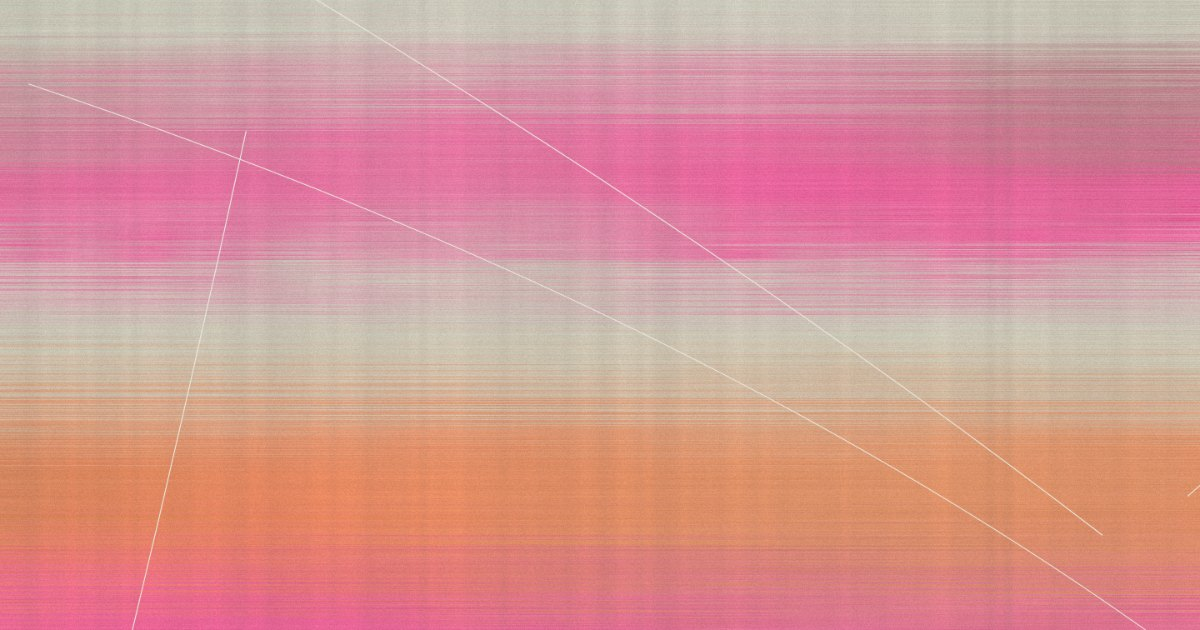
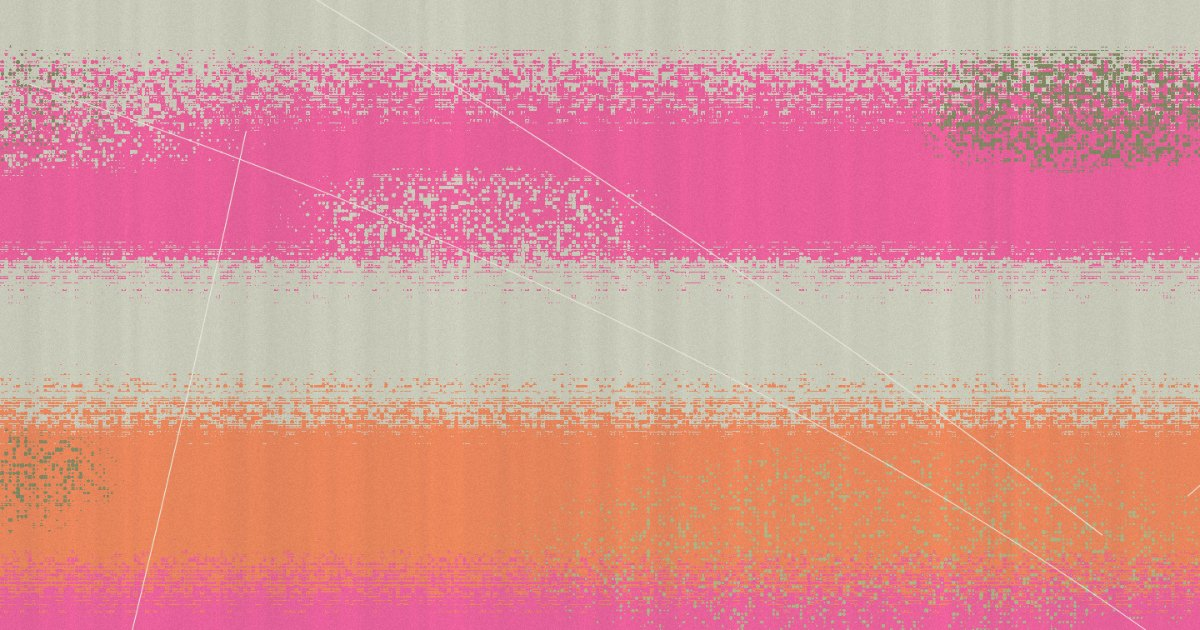
Slip stipples instead of dragging
The smear goes and a stipple takes its place: two bands no longer fade into
each other, they meet in a spray of specks of one colour into the other,
which is the only way an airbrush or a stipple engraving can make a gradient
at all. Scatter picks how the specks are dealt — evenly, clumped into drifts,
or on a fixed screen — and Size and Spread set how big they are and how much
of the way between two bands is dealt out rather than ruled.

Each speck is one draw per cell mixed with how far the pixel sits from that
cell's middle, so a cell opens from the centre out as a dot instead of
flipping all at once as a square. Without that it read as a screenshot of a
low-colour GIF rather than as a stipple.

Spread sharpens a patch's edge as well as a band's, or the one control would
mean two different things depending on which you were looking at. The Slip
stays: every row still reads the bands from slightly the wrong height, which
is what leaves the edges ragged. Drift, Tear and Crawl replace the old
movements; Crawl opens and closes the spray.

Claude-Session: https://claude.ai/code/session_01Hb5jk9z6h4o1AzZNFzskh6

diff --git a/slip/index.html b/slip/index.html
@@ -10,7 +10,7 @@
 <link rel="canonical" href="https://playgrnd.tools/slip">
 <meta property="og:site_name" content="playgrnd">
 <meta property="og:title" content="Slip — playgrnd">
-<meta property="og:description" content="Generate smeared-colour backgrounds — bands of colour dragged sideways into long streaks, torn line by line, under a scanner's stripe and a bleaching wash. Exports image and video.">
+<meta property="og:description" content="Generate stippled-colour backgrounds — bands of colour that meet in a spray of specks rather than a fade, slipping line by line, under a scanner's stripe and a bleaching wash. Exports image and video.">
 <meta property="og:type" content="website">
 <meta property="og:url" content="https://playgrnd.tools/slip">
 <meta property="og:image" content="https://playgrnd.tools/slip/og.jpg">
@@ -19,9 +19,9 @@
 <meta property="og:image:alt" content="Artwork made with Slip.">
 <meta name="twitter:card" content="summary_large_image">
 <meta name="twitter:title" content="Slip — playgrnd">
-<meta name="twitter:description" content="Generate smeared-colour backgrounds — bands of colour dragged sideways into long streaks, torn line by line, under a scanner's stripe and a bleaching wash.">
+<meta name="twitter:description" content="Generate stippled-colour backgrounds — bands of colour that meet in a spray of specks rather than a fade, slipping line by line, under a scanner's stripe and a bleaching wash.">
 <meta name="twitter:image" content="https://playgrnd.tools/slip/og.jpg">
-<meta name="description" content="Generate smeared-colour backgrounds — bands of colour dragged sideways into long streaks, torn line by line, under a scanner's stripe and a bleaching wash. Exports image and video.">
+<meta name="description" content="Generate stippled-colour backgrounds — bands of colour that meet in a spray of specks rather than a fade, slipping line by line, under a scanner's stripe and a bleaching wash. Exports image and video.">
 <link rel="stylesheet" href="https://fonts.googleapis.com/css2?family=DM+Mono&display=swap">
 <style>
 :root{
@@ -503,17 +503,16 @@ input[type=range]{accent-color:var(--ink)}
       </a>
       <div class="tbl">
         <span class="k">Index</span><span class="v">40 / 40</span>
-        <span class="k">Type</span><span class="v">Dragged colour</span>
+        <span class="k">Type</span><span class="v">Stippled colour</span>
       </div>
       <a class="lnk back" href="../index.html">&larr; All tools</a>
     </div>
     <div class="l-scroll"><details class="grp" open><summary>Field</summary><div class="grp-b"><div class="pr"><div class="top"><span class="k">Bands</span><span class="v" id="bandsVal">5</span></div><div class="track"><input type="range" id="bands" min="2" max="14" step="1" value="5"></div></div>
         <div class="pr"><div class="top"><span class="k">Patches</span><span class="v" id="patchesVal">6</span></div><div class="track"><input type="range" id="patches" min="0" max="24" step="1" value="6"></div></div>
-        <div class="pr"><div class="top"><span class="k">Strength</span><span class="v" id="blendVal">55%</span></div><div class="track"><input type="range" id="blend" min="0" max="1" step="0.01" value="0.55"></div></div>
-        <div class="pr"><div class="top"><span class="k">Detail</span><span class="v" id="detailVal">55%</span></div><div class="track"><input type="range" id="detail" min="0" max="1" step="0.01" value="0.55"></div></div></div></details>
-    <details class="grp"><summary>Drag</summary><div class="grp-b"><div class="misc stack"><span class="mhead"><span class="k">Direction</span></span><span class="mval"><div class="chips" id="dirs"></div></span></div>
-        <div class="pr"><div class="top"><span class="k">Smear</span><span class="v" id="smearVal">50%</span></div><div class="track"><input type="range" id="smear" min="0" max="1" step="0.01" value="0.5"></div></div>
-        <div class="pr"><div class="top"><span class="k">Variation</span><span class="v" id="varyVal">60%</span></div><div class="track"><input type="range" id="vary" min="0" max="1" step="0.01" value="0.6"></div></div>
+        <div class="pr"><div class="top"><span class="k">Strength</span><span class="v" id="blendVal">55%</span></div><div class="track"><input type="range" id="blend" min="0" max="1" step="0.01" value="0.55"></div></div></div></details>
+    <details class="grp"><summary>Stipple</summary><div class="grp-b"><div class="misc stack"><span class="mhead"><span class="k">Scatter</span></span><span class="mval"><div class="chips" id="dirs"></div></span></div>
+        <div class="pr"><div class="top"><span class="k">Size</span><span class="v" id="sizeVal">25%</span></div><div class="track"><input type="range" id="size" min="0" max="1" step="0.01" value="0.25"></div></div>
+        <div class="pr"><div class="top"><span class="k">Spread</span><span class="v" id="spreadVal">40%</span></div><div class="track"><input type="range" id="spread" min="0" max="1" step="0.01" value="0.4"></div></div>
         <div class="pr"><div class="top"><span class="k">Slip</span><span class="v" id="slipVal">35%</span></div><div class="track"><input type="range" id="slip" min="0" max="1" step="0.01" value="0.35"></div></div></div></details>
     <details class="grp"><summary>Curves</summary><div class="grp-b"><div class="pr"><div class="top"><span class="k">Curves</span><span class="v" id="curvesVal">4</span></div><div class="track"><input type="range" id="curves" min="0" max="20" step="1" value="4"></div></div>
         <div class="pr"><div class="top"><span class="k">Weight</span><span class="v" id="weightVal">30%</span></div><div class="track"><input type="range" id="weight" min="0" max="1" step="0.01" value="0.3"></div></div>
@@ -612,11 +611,10 @@ function relLum(h){const[r,g,b]=hex2rgb(h).map(v=>{v/=255;return v<=.03928?v/12.
 
 const RATIOS=[{id:"9:16",w:9,h:16},{id:"3:4",w:3,h:4},{id:"4:5",w:4,h:5},{id:"1:1",w:1,h:1},
  {id:"5:4",w:5,h:4},{id:"4:3",w:4,h:3},{id:"3:2",w:3,h:2},{id:"16:9",w:16,h:9}];
-const MODES=[["drift","Drift"],["tear","Tear"],["pulse","Pulse"]];
-/* Which way the picture is dragged. The colour bands are laid at right angles
-   to it, because a band running the same way as the smear is the one thing
-   the smear would rub out. */
-const DIRS=[["across","Across"],["down","Down"],["diag","Diagonal"]];
+const MODES=[["drift","Drift"],["tear","Tear"],["crawl","Crawl"]];
+/* How the specks are dealt: evenly, clumped into clouds the way an airbrush
+   spatters, or on a fixed grid like a printer's screen. */
+const DIRS=[["even","Even"],["cloud","Cloud"],["grid","Grid"]];
 
 /* The first ink is the paper the wash bleaches towards and the curves are
    scratched back to; the rest are the colours in the field. */
@@ -630,8 +628,8 @@ const PALETTES=[
 
 const S={
   seed:12, ratio:"9:16",
-  bands:5, patches:6, blend:0.55, detail:0.55,
-  dir:"across", smear:0.5, vary:0.6, slip:0.35,
+  bands:5, patches:6, blend:0.55,
+  dir:"even", size:0.25, spread:0.4, slip:0.35,
   scan:0.3, pitch:0.3, grain:0.3, wash:0.4,
   curves:4, weight:0.3, bend:0.55,
   pal:PALETTES[0].slice(),
@@ -659,13 +657,15 @@ function hex2rgbP(h){
   if(h.length===3) h=h.split("").map(c=>c+c).join("");
   return [parseInt(h.slice(0,2),16)||0,parseInt(h.slice(2,4),16)||0,parseInt(h.slice(4,6),16)||0];
 }
+/* a printer's screen in four by four: the order the cells of a block fill in */
+const BAYER=[0,8,2,10,12,4,14,6,3,11,1,9,15,7,13,5];
 
 /* ------------------------------------------------------------------
-   Everything here lives in a frame that turns with the smear: u runs
-   along the drag and v runs across it, so the same code makes a
-   sideways smear of stacked bands and a downward smear of upright ones
-   without a second path through it. Both are 0 to 1, which is what
-   keeps a band layout proportional to whatever frame it is asked for.
+   The field is a stack of colour bands with patches laid over them,
+   and nothing about it is smooth: every boundary is dealt out as
+   specks of one colour into the other rather than faded. Which is what
+   an airbrush does, and what a stipple engraving does, and neither of
+   them can make a gradient any other way.
 ------------------------------------------------------------------- */
 let slipCache=null, slipKey="";
 function slipP(){
@@ -708,6 +708,9 @@ function slipP(){
   return slipCache;
 }
 
+/* the round falloff of a patch, before the spread has its say */
+function w0(dd){ const w=1-dd; return w*w; }
+
 function paint(c,W,H,f){
   const M=S.motion, T=M.on ? f/M.frames : 0, ph=T*Math.PI*2;
   const raw=S.pal.length?S.pal:PALETTES[0];
@@ -719,15 +722,14 @@ function paint(c,W,H,f){
   for(const s of stops) s.c=inks[s.k%inks.length];
   for(const q of patches) q.c=inks[q.k%inks.length];
 
-  const across=S.dir!=="down";
-  const NU=across?W:H, NV=across?H:W;
-  const shear=S.dir==="diag"?0.55:0;
   const seed=S.seed|0;
+  const U=Math.sqrt(W*H);
+  const kind=S.dir;
 
-  /* swells to its fullest halfway round and back down by the end: a plain
-     sine is already back where it started at the half-loop, which spends half
-     of every loop repeating the first half */
-  const pulse=(M.on&&M.mode==="pulse") ? 1+(1-Math.cos(ph))*0.5*M.amount*0.8 : 1;
+  /* opens and closes rather than swelling and shrinking: a plain sine is
+     already back where it started at the half-loop, which spends half of
+     every loop repeating the first half */
+  const open=(M.on&&M.mode==="crawl") ? 1+(1-Math.cos(ph))*0.5*M.amount*0.9 : 1;
   const glide=(M.on&&M.mode==="drift") ? M.amount*0.12 : 0;
   const gu=Math.cos(ph)*glide, gv=Math.sin(ph)*glide*0.35;
   /* the tear crawls by walking the noise round a circle, which is the only
@@ -735,155 +737,112 @@ function paint(c,W,H,f){
   const tr=(M.on&&M.mode==="tear") ? M.amount*1.6 : 0;
   const tu=Math.cos(ph)*tr, tv=Math.sin(ph)*tr;
 
-  const spanU=NU, spanV=NV;
-  /* A drag can only smear what is already there. Bands on their own are so
-     smooth along the drag that blurring them changes nothing at all — it took
-     a picture with detail in it to make streaks. So the field is roughened
-     before it is dragged, at a scale sized off the picture rather than off the
-     pixel: fine grain going in, long strands of colour coming out. */
-  /* The roughening is coarse along the drag and fine across it, on purpose.
-     A drag is an average, and averaging kills whatever varies along it: sixty
-     specks averaged into one leave almost nothing behind, which is why an even
-     grain going in came out as a faint haze. Long across the drag and thin at
-     right angles to it, the same grain survives as strands. */
-  const UU=Math.sqrt(W*H);
-  const dcU=Math.max(2,UU*0.026), dcV=Math.max(1.2,UU*0.0055);
-  const dfu=spanU/dcU, dfv=spanV/dcV;
-  const det=S.detail;
-  const rad=S.smear*0.24*pulse;            /* in u, as a fraction of the run */
+  /* one speck, in pixels, sized off the picture rather than off the pixel so
+     a 6000px export is the same picture as the preview and not a finer one */
+  const cell=Math.max(1,U*(0.0011+S.size*0.013));
+  const inv=1/cell;
+  const clumpF=1/Math.max(2,cell*11);
+  /* how much of the way between two bands is dealt out as specks: at nothing
+     the change is an edge, wound up it is a wide spray of one into the other */
+  const wide=Math.max(0.02,S.spread*open);
   const slipAmt=S.slip*0.16;
   const blend=S.blend;
 
   const img=c.createImageData(W,H), d=img.data;
-  const line=new Float32Array(NU*3);
-  const sum=new Float32Array((NU+1)*3);
+  const scanA=S.scan*0.5, wash=S.wash*0.8, gl=S.grain*46;
+  const pitch=Math.max(1.2,U*(0.0016+S.pitch*0.028));
 
-  for(let v=0;v<NV;v++){
-    const vn=(v+0.5)/NV;
-    /* how far this line is dragged, and how far it has slipped sideways from
-       the one above it -- the second is what tears the picture apart */
-    const wob=vnP(vn*7.3+tu,2.7+tv,seed+5);
-    const r=Math.max(0,rad*(1-S.vary*0.85+S.vary*1.7*wob))*NU;
-    /* The slip moves each line across the bands rather than along the drag.
-       Along the drag it did nothing worth seeing: a drag long enough to smear
-       a band leaves nothing with an edge for a sideways shift to break, so
-       the control was dead at every setting anyone would use. Across the
-       bands it is the thing you can actually see -- every line reads the
-       colour from slightly the wrong height, and the edges come apart. Two
-       shifts, one that slides whole runs of lines off true together and one
-       that is different on every single line. */
+  for(let y=0;y<H;y++){
+    const vn=(y+0.5)/H;
+    /* every row reads the bands from a slightly wrong height, which is what
+       leaves the edges ragged instead of ruled */
     const sl=(vnP(vn*23.1+tu,9.4+tv,seed+61)-0.5)*slipAmt
-            +(hshP(v,(tu*97)|0,seed+131)-0.5)*slipAmt*0.9;
+            +(hshP(y,(tu*97)|0,seed+131)-0.5)*slipAmt*0.9;
+    const vf=vn+gv+sl;
 
-    for(let u=0;u<NU;u++){
-      const un=(u+0.5)/NU;
-      const uf=un+gu;
-      /* the diagonal is the sideways smear of a field that has been sheared,
-         which comes to the same picture as dragging the field on the slant
-         and costs nothing extra */
-      const vf=vn+gv+sl+shear*(un-0.5);
+    /* the band this row falls in, and how far across it -- the same for the
+       whole row, so it is worth finding once */
+    let i=0; while(i<stops.length-2 && vf>stops[i+1].p) i++;
+    const A=stops[i], B=stops[i+1<stops.length?i+1:i];
+    const gap=B.p-A.p;
+    let t=gap>1e-6?(vf-A.p)/gap:0;
+    /* the change happens across the middle of the gap rather than all of it,
+       so a band has some body before it starts turning into its neighbour */
+    t=(t-0.5)/wide+0.5;
+    const gy=y*inv, cy=gy|0, fy=gy-cy-0.5;
+    let p=y*W*4;
 
-      /* the roughening: it moves this sample a little way across the bands
-         rather than only lightening it, so a smear pulls threads of the
-         neighbouring colour through instead of a grey blur */
-      let vd=vf, lift=0;
-      if(det>0.004){
-        vd+=det*0.36*((vnP(un*dfu,vf*dfv,seed+13)-0.5)
-                     +(vnP(un*dfu*2.3,vf*dfv*2.3,seed+91)-0.5)*0.5);
-        lift=det*96*(vnP(un*dfu*1.4+11.3,vf*dfv*1.4,seed+37)-0.5);
+    for(let x=0;x<W;x++,p+=4){
+      const un=(x+0.5)/W+gu;
+      const gx=x*inv, cx=gx|0, fx=gx-cx-0.5;
+      /* how far this pixel sits from the middle of its own cell. Mixed into
+         the draw it turns each cell from a square that flips all at once into
+         a dot that opens from the centre out — which is the difference
+         between a stipple and a screenshot of a low-colour GIF. */
+      const rad=Math.sqrt(fx*fx+fy*fy)*1.35;
+
+      /* the speck: one draw per cell, so a run of pixels takes the same
+         colour together and the result reads as a dot rather than as noise */
+      let r;
+      if(kind==="grid"){
+        /* a fixed order within each block of sixteen, which is a screen
+           rather than a scatter -- and it needs no randomness at all */
+        r=(BAYER[(cy&3)*4+(cx&3)]+0.5)/16;
+      }else{
+        r=hshP(cx,cy,seed+13);
+        if(kind==="cloud"){
+          /* the odds change slowly across the picture, so the specks gather
+             into drifts instead of lying evenly */
+          const dens=0.30+1.4*vnP(x*clumpF+tu,y*clumpF+tv,seed+7);
+          r=r/dens;
+        }
       }
+      r=r*0.62+rad*0.38;
 
-      /* the band ramp, read at this point across the field */
-      let i=0; while(i<stops.length-2 && vd>stops[i+1].p) i++;
-      const a=stops[i], b=stops[i+1<stops.length?i+1:i];
-      const gap=b.p-a.p;
-      let t=gap>1e-6?(vd-a.p)/gap:0;
-      /* the change happens across the middle two thirds of the gap rather than
-         all of it, so a band has some body to it before it starts turning into
-         its neighbour */
-      t=(t-0.17)/0.66;
-      t=t<0?0:t>1?1:t;
-      t=t*t*(3-2*t);
-      let R=a.c[0]+(b.c[0]-a.c[0])*t;
-      let G=a.c[1]+(b.c[1]-a.c[1])*t;
-      let B=a.c[2]+(b.c[2]-a.c[2])*t;
+      let col = r<t ? B.c : A.c;
 
-      /* patches of colour laid over the ramp, stretched along the drag */
+      /* patches, dealt the same way: a second draw so their speckle does not
+         line up with the band's */
       for(let j=0;j<patches.length;j++){
         const q=patches[j];
-        const du=(uf-q.u)/(q.r*q.stretch*spanV/spanU), dv=(vd-q.v)/q.r;
+        const du=(un-q.u)/(q.r*q.stretch*H/W), dv=(vf-q.v)/q.r;
         const dd=du*du+dv*dv;
         if(dd>=1) continue;
-        const w=1-dd;
-        const k=q.a*blend*w*w;
-        R+=(q.c[0]-R)*k; G+=(q.c[1]-G)*k; B+=(q.c[2]-B)*k;
+        /* Spread sharpens a patch's edge as well as a band's, or the one
+           control would mean two different things depending on which of them
+           you were looking at. */
+        let w=(w0(dd)-0.5)/wide+0.5;
+        w=w<0?0:w>1?1:w;
+        const k=q.a*blend*w;
+        let r2;
+        if(kind==="grid") r2=(BAYER[((cy+2)&3)*4+((cx+1)&3)]+0.5)/16;
+        else r2=hshP(cx+7919,cy+104729,seed+211+j*37)*0.62+rad*0.38;
+        if(r2<k) col=q.c;
       }
-      const o=u*3; line[o]=R+lift; line[o+1]=G+lift; line[o+2]=B+lift;
-    }
 
-    /* Running totals along the line, so an average over any width at all is
-       two subtractions instead of a loop -- which is what lets the drag be a
-       different length on every line without the picture taking minutes. */
-    sum[0]=sum[1]=sum[2]=0;
-    for(let u=0;u<NU;u++){
-      const o=u*3, s=o+3;
-      sum[s]=sum[o]+line[o];
-      sum[s+1]=sum[o+1]+line[o+1];
-      sum[s+2]=sum[o+2]+line[o+2];
-    }
-
-    const ri=Math.round(r);
-    for(let u=0;u<NU;u++){
-      let lo=u-ri; if(lo<0)lo=0;
-      let hi=u+ri+1; if(hi>NU)hi=NU;
-      const n=hi-lo, li=lo*3, hi3=hi*3;
-      let R=(sum[hi3]-sum[li])/n;
-      let G=(sum[hi3+1]-sum[li+1])/n;
-      let B=(sum[hi3+2]-sum[li+2])/n;
-
-      const x=across?u:v, y=across?v:u;
-      const p=(y*W+x)*4;
-      d[p]=R; d[p+1]=G; d[p+2]=B; d[p+3]=255;
-    }
-  }
-
-  /* --------------------------------------------------------------
-     The scan and the grain go on after the drag, not before it: a
-     drag long enough to smear a band would rub out a hairline scan
-     entirely, and on a real sheet the scan is the machine that read
-     the picture rather than anything in it.
-  ----------------------------------------------------------------- */
-  const scanA=S.scan*0.5, wash=S.wash*0.8, gl=S.grain*46;
-  const U=Math.sqrt(W*H);
-  const pitch=Math.max(1.2,U*(0.0016+S.pitch*0.028));
-  for(let y=0;y<H;y++){
-    let p=y*W*4;
-    for(let x=0;x<W;x++,p+=4){
-      let R=d[p], G=d[p+1], B=d[p+2];
+      let R=col[0], G=col[1], Bl=col[2];
       if(scanA>0.002){
-        /* the stripe runs at right angles to the drag, so it survives it */
-        const w=across?x:y;
-        const s=((vnP(w/pitch,0.5,seed+29)-0.5)
-                +(vnP(w/(pitch*3.7),7.5,seed+53)-0.5)*0.7)*scanA*0.62;
-        const k=1+s;
-        R*=k; G*=k; B*=k;
+        const s=((vnP(x/pitch,0.5,seed+29)-0.5)
+                +(vnP(x/(pitch*3.7),7.5,seed+53)-0.5)*0.7)*scanA*0.62;
+        const k=1+s; R*=k; G*=k; Bl*=k;
       }
       if(wash>0.002){
-        R+=(paper[0]-R)*wash; G+=(paper[1]-G)*wash; B+=(paper[2]-B)*wash;
+        R+=(paper[0]-R)*wash; G+=(paper[1]-G)*wash; Bl+=(paper[2]-Bl)*wash;
       }
       if(gl>0.002){
         const q=(hshP(x,y,seed+71)-0.5)*gl;
-        R+=q; G+=q; B+=q;
+        R+=q; G+=q; Bl+=q;
       }
       d[p]  =R<0?0:R>255?255:R;
       d[p+1]=G<0?0:G>255?255:G;
-      d[p+2]=B<0?0:B>255?255:B;
+      d[p+2]=Bl<0?0:Bl>255?255:Bl;
+      d[p+3]=255;
     }
   }
   c.putImageData(img,0,0);
 
   /* the curves last of all, drawn rather than computed: they are the one
-     crisp thing on the sheet and the grain has no business on them */
+     crisp thing on the sheet and the speckle has no business on them */
   if(curves.length && S.weight>0.004){
     c.setTransform(1,0,0,1,0,0);
     c.globalCompositeOperation="source-over";
@@ -1109,9 +1068,8 @@ $("#rotColors").addEventListener("click",()=>{
 bindRange("bands",v=>v|0,v=>S.bands=v|0);
 bindRange("patches",v=>v|0,v=>S.patches=v|0);
 bindRange("blend",v=>Math.round(v*100)+"%",v=>S.blend=v);
-bindRange("detail",v=>Math.round(v*100)+"%",v=>S.detail=v);
-bindRange("smear",v=>Math.round(v*100)+"%",v=>S.smear=v);
-bindRange("vary",v=>Math.round(v*100)+"%",v=>S.vary=v);
+bindRange("size",v=>Math.round(v*100)+"%",v=>S.size=v);
+bindRange("spread",v=>Math.round(v*100)+"%",v=>S.spread=v);
 bindRange("slip",v=>Math.round(v*100)+"%",v=>S.slip=v);
 bindRange("curves",v=>v|0,v=>S.curves=v|0);
 bindRange("weight",v=>Math.round(v*100)+"%",v=>S.weight=v);

diff --git a/index.html b/index.html
@@ -464,7 +464,7 @@ const TOOLS=[
   {slug:"strand", name:"Strand", year:2026, cat:"Backgrounds", desc:"branching rod chains", art:"strand/og.jpg", added:"2026-09-04"},
   {slug:"chaff", name:"Chaff", year:2026, cat:"Backgrounds", desc:"thrown blade scatters", art:"chaff/og.jpg", added:"2026-09-04"},
   {slug:"haze", name:"Haze", year:2026, cat:"Backgrounds", desc:"sprayed colour fields", art:"haze/og.jpg", added:"2026-09-05"},
-  {slug:"slip", name:"Slip", year:2026, cat:"Backgrounds", desc:"dragged colour smears", art:"slip/og.jpg", added:"2026-09-05"}
+  {slug:"slip", name:"Slip", year:2026, cat:"Backgrounds", desc:"stippled colour fields", art:"slip/og.jpg", added:"2026-09-05"}
 ];
 
 const numbered=TOOLS.map((t,i)=>({...t,no:i+1}));
